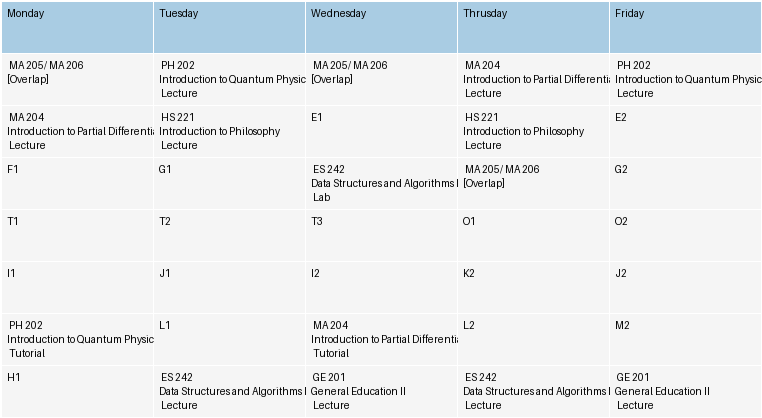
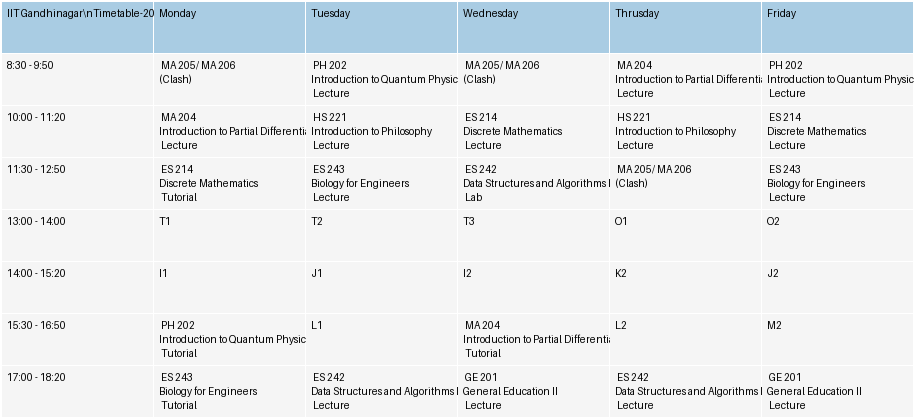
build_ready_to_show

diff --git a/templates/index.html b/templates/index.html
@@ -2,37 +2,57 @@
 <html lang="en">
 <head>
     <meta charset="UTF-8">
-    <title>Course Selection</title>
+    <meta name="viewport" content="width=device-width, initial-scale=1.0">
+    <title>IIT Gandhinagar Time Table</title>
     <style>
         body {
-            font-family: Arial, sans-serif;
-            margin: 40px;
+            font-family: 'Arial', sans-serif;
+            margin: 0;
+            padding: 40px;
+            text-align: center;
+            background-color: #f4f4f9; /* Light grayish background */
+            color: #333; /* Darker text for better readability */
         }
         table {
-            width: 50%;
+            width: 80%; /* Responsive width */
+            margin: 20px auto; /* Center the table */
             border-collapse: collapse;
-            margin-bottom: 20px;
+            box-shadow: 0 2px 8px rgba(0,0,0,0.1); /* Subtle shadow around table */
         }
         th, td {
             border: 1px solid #ccc;
-            padding: 8px;
+            padding: 12px; /* More padding for better spacing */
             text-align: left;
         }
         th {
-            background-color: #f2f2f2;
+            background-color: #0066cc; /* Blue background for headings */
+            color: #ffffff; /* White text color */
         }
         button {
-            padding: 10px 20px;
+            padding: 12px 24px;
             font-size: 16px;
             cursor: pointer;
-            position: sticky;
+            background-color: #28a745; /* Green background */
+            color: white; /* White text */
+            border: none;
+            border-radius: 5px; /* Rounded corners */
+            position: fixed;
             bottom: 30px;
-            right: 0px;
+            right: 30px; /* Position the button at the bottom right */
+        }
+        @media (max-width: 600px) {
+            table {
+                width: 100%;
+            }
+            body {
+                padding: 20px;
+            }
         }
     </style>
 </head>
 <body>
-    <h2>Select Courses</h2>
+    <h1>IIT Gandhinagar Timetable Portal</h1>
+    <h3>Select Your Courses</h3>
     <form action="/generate-timetable" method="post">
         <table>
             <tr>

diff --git a/app.py b/app.py
@@ -25,7 +25,6 @@ def create_timetable_image(selected_courses):
     # Set the first row as column headers and drop the first row
     time_slots_file.columns = time_slots_file.iloc[0]
     time_slots_file = time_slots_file[1:]
-    time_slots_file.set_index('Slot', inplace=True)
 
     # Process the timetable to filter by selected courses
     course_slots = {}
@@ -42,7 +41,7 @@ def create_timetable_image(selected_courses):
     overlaps = {}
 
     # Replace time slots with course information
-    for slot in (personalized_timetable.index):
+    for slot in personalized_timetable.index:
         for day in personalized_timetable.columns:
             entries = []
             for code, info in course_slots.items():
@@ -57,7 +56,7 @@ def create_timetable_image(selected_courses):
                 for ent in entries:
                     display += ent[:7]+'/'
                 else:
-                    display = display[:-1] +"\n[Overlap]"
+                    display = display[:-1] +"\n(Clash)"
                 personalized_timetable.at[slot, day] = display
             elif entries:
                 personalized_timetable.at[slot, day] = entries[0]
